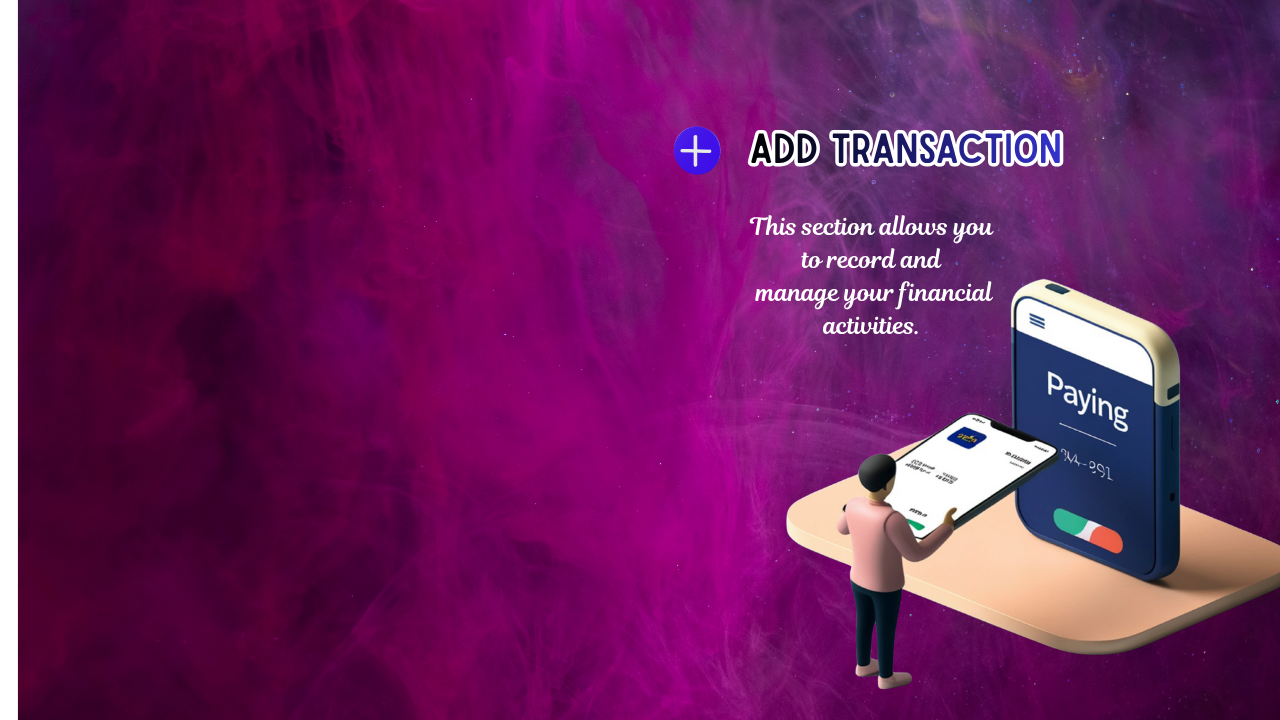
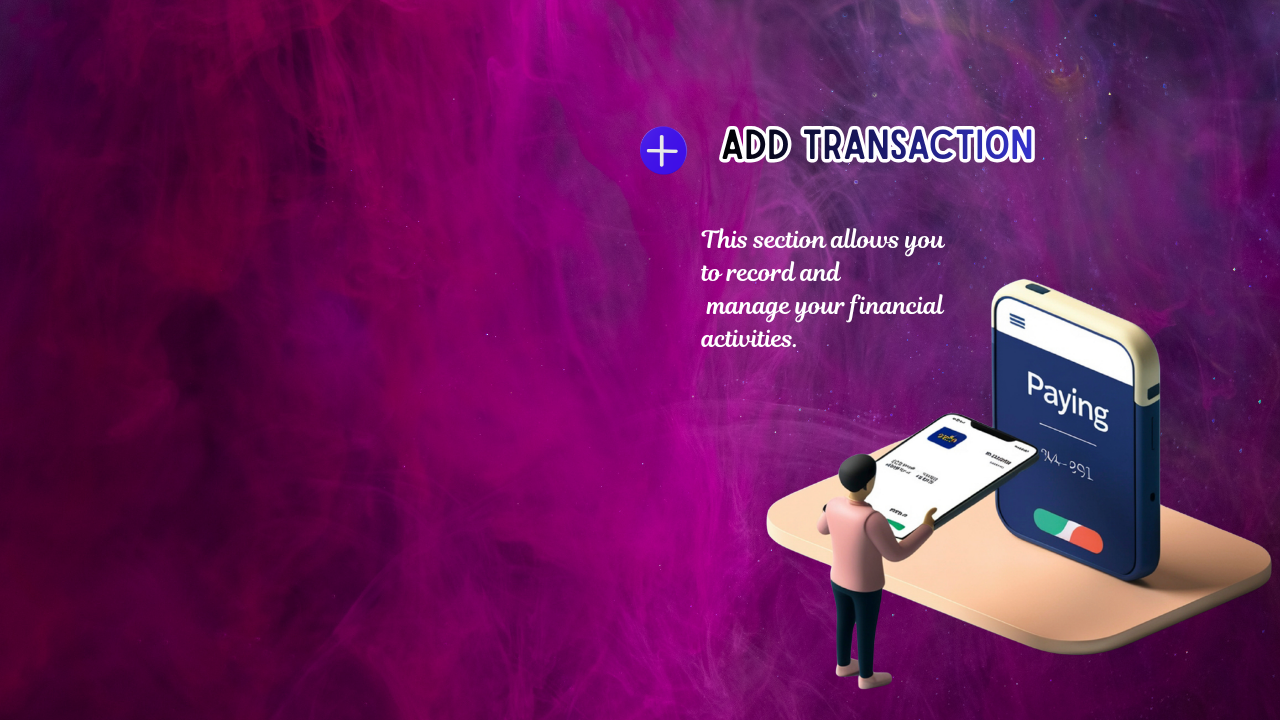
new updated code

diff --git a/templates/dashboard.html b/templates/dashboard.html
@@ -4,9 +4,7 @@
 <style>
     :root { --glass: rgba(194, 47, 121, 0.239); --forcast:rgba(206, 15, 130, 0.41);}
     .dashboard-header {
-        background-image:url("{{ url_for('static', filename='dashcover.png') }}");  background-size:cover;
-        background-position: left;
-        background-attachment: fixed;
+        background-image:url("{{ url_for('static', filename='dashcover.png') }}");  background-size:cover; background-position: left; background-attachment: fixed;
         padding: 30px 10px 70px 0px; margin-bottom: -60px;
         border-radius: 0 0 30px 3px; color: white; 
     }
@@ -27,7 +25,7 @@
     .header-stat-card h4 { font-size: 1.25rem; font-weight: 800; margin: 0; }
     .header-stat-card span { font-size: 1rem; color: #6c757d; font-weight: 700; }
     
-    .b-income ,.b-balance,.b-predict ,.b-expense { border-color: #27ae60; } 
+    .b-income ,.b-balance,.b-predict ,.b-expense { border-color: #27ae60;} 
 
     .mini-icon {
         width: 35px; height: 35px; display: flex; align-items: center; 
@@ -37,7 +35,7 @@
          background-image:url("{{ url_for('static', filename='why.png') }}");  background-size:1300px;
         background-position: top;
         background-attachment: fixed;
-        padding: 30px 100px 300px 0px; margin-bottom: -10px; 
+        padding: 30px 100px 300px 0px; 
     }
     /* 1. Animation for cards */
     @keyframes cardArrival {
@@ -55,7 +53,9 @@
 
     /* (Left card first, then Middle, then Right) */
     .glass-panel .col-lg-4 ,.glass-panel .col-lg-5, .glass-panel .col-lg-3 ,.baj{ animation-delay: 0.4s; }
-     
+     .imgheader{
+         background-image:url("{{ url_for('static', filename='addtrans.png') }}");  background-size:1200px; background-position: top;
+        background-attachment: relative; margin-left: 2px; }
 </style>
 {% endblock %}
 
@@ -71,13 +71,12 @@
             <div class="d-flex align-items-center ps-2">
                 <i class="bi bi-cpu text-light fs-4 me-3"></i>
                 <div>
-                    <h6 class="mb-0 fw-bold">AI Financial Insight</h6>
-                    <small class="opacity-75">Ensemble Prediction Active</small>
+                    <h6 class="mb-0 fw-bold">AI Financial Insight</h6> <small class="opacity-75">Ensemble Prediction Active</small>
                 </div>
             </div>
             <div class="pe-2">
-               <span  class=" baj badge rounded-pill bg-light text-danger px-3 py-2 me-1 fw-bold fs-6"> <i class="bi bi-robot text-primary px-1"></i>Linear Reg: Rs {{ "%.0f"|format(prediction.lr_prediction|default(0)|abs) }}</span>
-                <span class="baj badge rounded-pill bg-light text-success px-3 py-2 fw-bold fs-6"><i class="bi bi-magic text-primary px-1"></i>Random Forest: Rs {{ "%.0f"|format(prediction.rf_prediction|default(0)|abs) }}</span>
+             <span  class=" baj badge rounded-pill bg-light text-danger px-3 py-2 me-1 fw-bold fs-6"> <i class="bi bi-robot text-primary px-1"></i>Linear Reg: Rs {{ "%.0f"|format(prediction.lr_prediction|default(0)|abs) }}</span>
+            <span class="baj badge rounded-pill bg-light text-success px-3 py-2 fw-bold fs-6"><i class="bi bi-magic text-primary px-1"></i>Random Forest: Rs {{ "%.0f"|format(prediction.rf_prediction|default(0)|abs) }}</span>
             </div>
         </div>
         <div class="row  col-lg-12">
@@ -90,8 +89,6 @@
                     <i class="bi-pie-chart-fill me-1"></i> View Report
                 </a>
             </div>
-            <div class="col-lg-5"> </div>
-         
         </div>
     </div>
 </div>
@@ -103,13 +100,13 @@
                         {'label': 'AI Forecast', 'val': prediction.prediction|abs, 'class': 'b-predict', 'icon': 'bi-stars', 'color': 'text-dark', 'bg': 'white'}
                     ] %}
                     {% for item in metrics %}
-                    <div class="col-3">
+                    <div class="col-md-3">
                         <div class="header-stat-card {{ item.class }}">
                             <div class=" h-60 d-flex align-items-center mb-3">
-                                <div class="mini-icon me-2" style="background: {{ item.bg }}; color: {{ item.color }}">
+                                <div class="mini-icon me-2" style="background:rgb(252, 161, 217);">
                                     <i class="bi {{ item.icon }}"></i>
                                 </div>
-                                <span style="color:aliceblue">{{ item.label }}</span>
+                                <span style="color:rgb(242, 248, 134)">{{ item.label }}</span>
                             </div>
                             <h4 class="text-light">Rs {{ "%.0f"|format(item.val) }}</h4>
                         </div>
@@ -229,7 +226,7 @@
 </div>
 <!-- Transaction Area  -->
  <div class="py-1 col-lg-12">
-                <div class="glass-panel container h-90 >
+                <div class="imgheader h-90 >
                     {% include "partials/_quick_entry_form.html" %} 
                 </div>
             </div>

diff --git a/templates/add_transaction.html b/templates/add_transaction.html
@@ -4,12 +4,9 @@
 
 {% block extra_css %}
 <style>
-    body{
-       background: linear-gradient(120deg, #10907d 5%, #000d6f 60%,purple 15%, #138354 );
-    }
-    .imgcontainer{
-         background-image:url("{{ url_for('static', filename='addtrans.png') }}");  background-size:1200px; background-position: left-top;
-        background-attachment: fixed; padding:1px;}
+    .imgheader{
+         background-image:url("{{ url_for('static', filename='addtrans.png') }}");  background-size:1200px; background-position: top;
+        background-attachment: fixed; }
     /* Modern Form Controls */
     .form-control, .form-select { 
         border-radius: 10px; 
@@ -32,18 +29,16 @@
 {% endblock %}
 
 {% block content %}
-<div class="imgcontainer  mb-0 ">
-    <div class="row g-2 justify-content-center align-items-center">
-        
+<div class="container-fluid imgheader  mx-0 py-3 ">
+    <div class="row col-lg-12 mx-0 justify-content-center align-items-center">
         <div class=" col-lg-5 mt-5 ">
-            <div style="background: linear-gradient(125deg,rgb(180, 180, 246), #fbeafe 0%, #95aef9 100%);" class="card shadow-lg p-4">
+            <div style="background: linear-gradient(125deg,rgb(202, 202, 254), #fbeafe 0%, #c5d3fc 100%);" class="card shadow-lg p-4">
                 <form method="POST" action="{{ url_for('main.add_transaction') }}">
-                    <div style="background-color: #4e54c8; color: white; padding: 12px; border-radius: 8px; font-size: 0.9rem;" class="mb-4 text-center shadow-sm">
+                    <div style="background-color: #4e54c8; color: white; padding:5px; border-radius: 8px; font-size: 19px;" class="mb-4 text-center shadow-sm">
                         Fill in the details to record your finance.
                     </div>
-
                     <div class="mb-2">
-                        <label class="form-label fw-bold small text-uppercase text-secondary">Transaction Type</label>
+                        <label class="form-label fw-bold text-uppercase">Transaction Type</label>
                         <div class="d-flex gap-3">
                             <input type="radio" class="btn-check" name="type" id="income" value="income" autocomplete="off" required>
                             <label class="btn btn-outline-success w-100 py-2 fw-bold" for="income">
@@ -56,11 +51,10 @@
                             </label>
                         </div>
                     </div>
-
-                    
+ 
                     <div class="row col-lg-12">
                         <div class="col-md-6 mb-2">
-                        <label class="form-label fw-bold small text-secondary text-uppercase">Category</label>
+                        <label class="form-label fw-bold  text-uppercase">Category</label>
                         <select class="form-select" name="category_id" required>
                             <option value="" disabled selected>Choose...</option>
                             {% for category in categories %}
@@ -68,7 +62,7 @@
                             {% endfor %}
                         </select> </div>
                         <div class="col-md-6">
-                            <label class="form-label fw-bold small text-secondary text-uppercase">Amount</label>
+                            <label class="form-label fw-bold  text-uppercase">Amount</label>
                             <div class="input-group">
                                 <span class="input-group-text bg-white border-end-0">Rs</span>
                                 <input type="number" step="0.01" class="form-control border-start-0" name="amount" placeholder="0.00" required>
@@ -77,12 +71,12 @@
                     </div>
                    <div class="row">
                      <div class="col-md-5">
-                            <label class="form-label fw-bold small text-secondary text-uppercase">Date</label>
+                            <label class="form-label fw-bold  text-uppercase">Date</label>
                             <input type="date" class="form-control" id="date" name="date" required>
                         </div>
 
                     <div class="col-md-6 mb-2">
-                        <label class="form-label fw-bold small text-secondary text-uppercase">Description</label>
+                        <label class="form-label fw-bold  text-uppercase">Description</label>
                         <textarea class="form-control" name="description" rows="1" placeholder="Optional notes..."></textarea>
                     </div>
 
@@ -126,7 +120,6 @@
         
     </div>
 </div>
-
 <script>
     document.getElementById('date').valueAsDate = new Date();
 </script>

diff --git a/templates/prediction.html b/templates/prediction.html
@@ -17,9 +17,9 @@
     transition:.3s
 }
 .kpi-card:hover{transform:translateY(-4px)}
-.kpi-title{font-size:14px;font-weight: bolder;}
-.kpi-value{font-size:26px;font-weight:900;margin-top:5px}
-.p{font-style: italic;}
+.kpi-title{font-size:14px;font-weight: bolder; color:#fe6da9}
+.kpi-value{font-size:26px;font-weight:900;margin-top:5px ;color:rgb(229, 244, 16)}
+p{font-style: italic; color:rgb(227, 225, 225);font-family: verdana; font-size:small}
 
 .primary{background:linear-gradient(135deg,#0c589f,#8e8ad7)}
 .success{background:linear-gradient(135deg,hsl(242, 92%, 30%),#7594f4)}
@@ -69,7 +69,7 @@
     <div class="row g-3 mb-4 text-align-center">
         <div class="col-md-4">
             <div class="kpi-card primary">
-                <div class="kpi-title">💰Predicted Spending</div>
+                <div class="kpi-title"><i class="bi bi-cash-stack  fs-6">  Predicted Spending</i></div>
                 <div class="kpi-value">
                 Rs {{ "%.2f"|format(next_month_pred.prediction|abs) if next_month_pred.prediction else "0.00" }}
                 </div>
@@ -79,17 +79,17 @@
 
         <div class="col-md-4">
             <div class="kpi-card success">
-                <div class="kpi-title">📊Confidence</div>
+                <div class="kpi-title"><i class="bi bi-bar-chart-fill fs-6"> Confidence</i>  </div>
                 <div class="kpi-value">
                 {{ next_month_pred.confidence|upper if next_month_pred.confidence else "N/A" }}
                 </div>
-                <p>The "Confidence" level tells you how predictable your spending is.Indicates how reliable the prediction is, based on data consistency and pattern stability.</p>
+                <p>The "Confidence" level tells you how predictable your spending is.Indicates how reliable the prediction is, based on data consistency .</p>
             </div>
         </div>
 
         <div class="col-md-4">
             <div class="kpi-card dark">
-                <div class="kpi-title">🤖Models Used</div>
+                <div class="kpi-title"><i class="bi bi-robot  fs-6"> Models Used</i></div>
                 <div style="font-size: large;" class="kpi-value ">Linear Regression + Random Forest</div>
            <p>This forecast is powered by multiple models such as Linear Regression and Random Forest, combined to improve accuracy and reduce prediction errors.</p>
    

diff --git a/templates/partials/_quick_entry_form.html b/templates/partials/_quick_entry_form.html
@@ -1,7 +1,7 @@
 
 {% block extra_css %}
 <style>
-    
+     
     /* Modern Form Controls */
     .form-control, .form-select { 
         border-radius: 10px; 
@@ -32,10 +32,9 @@
 </style>
 {% endblock %}
 {% block content %}
-<div class="text-light pt-3 m-0">
+<div class=" text-light p-3 m-0">
     <p> <h5>Quick Transaction Entry :</h5>  To quickly add a transaction, you can enter the amount, category, and description in a simple form, while the date is automatically set in the background. When you submit the form, the system saves your data to the database. This form is placed on the dashboard so you can add transactions easily without opening another page.</p>
     <div class="row  justify-content-center align-items-center pt-2">
-        
         <div class=" col-lg-4 ">
             <div style="background: linear-gradient(140deg,rgb(219, 219, 251),white,rgb(251, 211, 251));" class="card shadow-lg p-4">
                 <form method="POST" action="{{ url_for('main.add_transaction') }}">
@@ -96,7 +95,7 @@
             </div>
         </div>
         <div class=" col-lg-8 ">
-            <div  style="background: linear-gradient(140deg,rgb(219, 219, 251),white,rgb(251, 211, 251));" class="card p-2">
+            <div  class="glass-panel p-2">
                 <div class="card-body">
                     <h5 class=" mb-2 d-flex align-items-center">
                     <i>   <i class="bi bi-folder2-open me-2 text-primary"></i> Transaction Overview

diff --git a/templates/reports.html b/templates/reports.html
@@ -9,7 +9,7 @@
         background-image:url("{{ url_for('static', filename='report.png') }}");  background-size:cover;
         background-position: center;
         background-attachment: fixed;
-        padding: 30px 20px 80px 50px; margin-bottom: -60px;  padding-top:30px;
+        padding: 30px 20px 90px 50px; margin-bottom: -50px;  padding-top:30px; margin-top:20px;
         border-radius: 0 0 30px 3px; color: white; 
     }  .chart-container {
         min-height: 300px;
@@ -26,8 +26,8 @@
 
 {% block content %}
 <div class="report-header d-flex flex-wrap justify-content-between align-items-center gap-3">
-    <div class="row col-lg-12"> <div class="col-lg-7">
-        <h3 class="mb-2 fw-bold"><i class="bi bi-pie-chart-fill me-2 fs-4"></i>Financial Reports</h3>
+    <div class="row col-lg-12 "> <div class="col-lg-7">
+        <h4 class="mb-2 fw-bold"><i class="bi bi-pie-chart-fill me-2 fs-4 mt-5 "></i>Financial Reports</h4>
         <p style="font-size:13px;" class="mb-0 ">This section provides a clear overview of your  wealth performance by showing your income, expenses, and spending patterns. It helps you understand  where your money goes and whether you are saving or overspending. This makes it easier for you to manage your  budget and make better financial decisions.</p>
     </div>
     <div class="col-lg-5  p-2 rounded-3 shadow-sm">

diff --git a/static/css/style.css b/static/css/style.css
@@ -2,7 +2,7 @@
 body {
     margin-top:25px;padding-top: 10px;
     background: linear-gradient(140deg, #1849bc , #a90d63 ,rgb(13, 13, 112),rgb(232, 116, 145), #4818b0 100%);
-    font-family:'Gill Sans', 'Gill Sans MT', Calibri, 'Trebuchet MS', sans-serif; color: #333;  
+    font-family:'Gill Sans', 'Gill Sans MT', Calibri, 'Trebuchet MS', sans-serif; color: #333;  margin-left:0px;
 }
 h1,h2,h3,h4,h5{
     font-family:Cambria, Cochin, Georgia, Times, 'Times New Roman', serif;font-weight: bold;
@@ -10,10 +10,7 @@ h1,h2,h3,h4,h5{
 
 /* 2. Navbar & Branding */
 .navbar{
-   position: fixed;
-   top:0;
-   width:100%;
-   z-index:1000;
+   position: fixed;  top:0; width:100%; z-index:1000;
 }
 .navbar-brand {
     font-weight: bold; font-size: 1.5rem;
@@ -29,7 +26,6 @@ h1,h2,h3,h4,h5{
 /* app label   */
 .brand-text {
     font-weight: 500;
-    
 }
 
 /* 3. Money Icon & Animations */

diff --git a/templates/footer.html b/templates/footer.html
@@ -1,5 +1,5 @@
  <!-- FOOTER -->
-<footer class="mt-2 pt-5 pb-3 text-white" 
+<footer class="mt-1 pt-5 pb-3 text-white" 
 style="background: linear-gradient(110deg,rgb(98, 7, 172),rgb(143, 47, 98),rgb(142, 13, 171),rgb(3, 42, 48)); border-top-left-radius:20px; border-top-right-radius:20px;">
 
     <div class="container">
